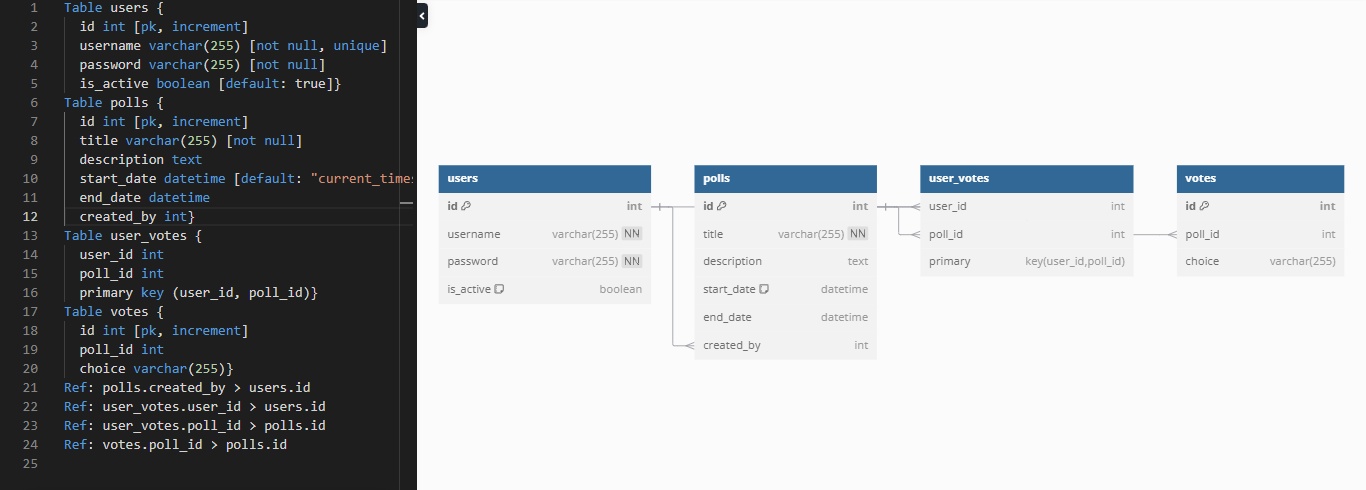
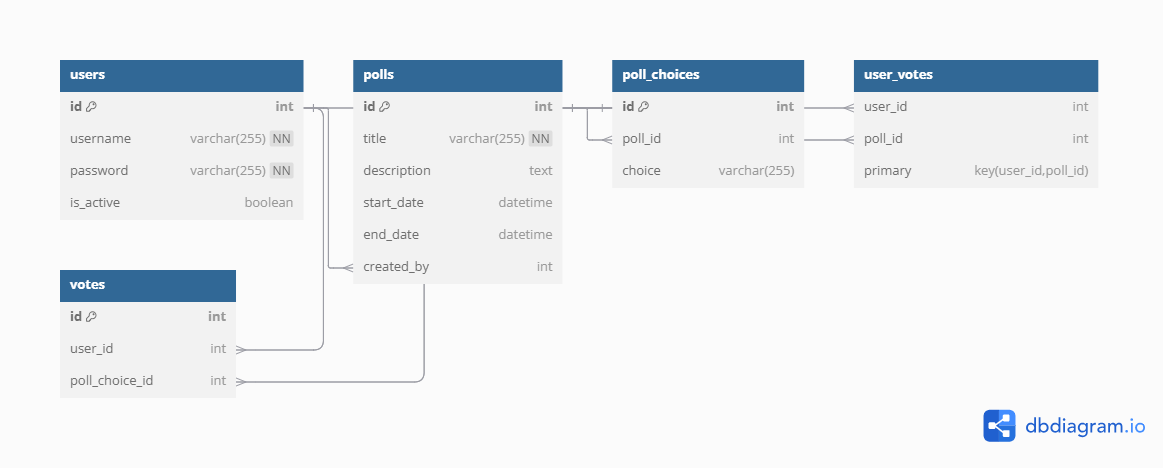
Nihil Ultra.

diff --git a/services/UserService.java b/services/UserService.java
@@ -14,11 +14,44 @@ public class UserService {
     }
 
     public static void registerUser() {
-        System.out.print("Enter username: ");
-        String username = scanner.nextLine();
-
-        System.out.print("Enter password: ");
-        String password = scanner.nextLine();
+        String username = "";
+        String password = "";
+    
+        while (true) {
+            System.out.print("Enter username: ");
+            username = scanner.nextLine();
+    
+            if (username.length() < 4) {
+                System.out.println("Username must be at least 4 characters long. Please try again.");
+                continue;
+            }
+    
+            try (Connection conn = DatabaseConnector.getConnection()) {
+                PreparedStatement checkStmt = conn.prepareStatement("SELECT COUNT(*) FROM users WHERE username = ?");
+                checkStmt.setString(1, username);
+                ResultSet rs = checkStmt.executeQuery();
+    
+                if (rs.next() && rs.getInt(1) > 0) {
+                    System.out.println("Username already exists. Please choose another username.");
+                } else {
+                    break; 
+                }
+            } catch (SQLException e) {
+                System.out.println("Error checking username: " + e.getMessage());
+                e.printStackTrace();
+            }
+        }
+    
+        while (true) {
+            System.out.print("Enter password: ");
+            password = scanner.nextLine();
+    
+            if (password.length() < 8) {
+                System.out.println("Password must be at least 8 characters long. Please try again.");
+                continue;
+            }
+            break; 
+        }
 
         try (Connection conn = DatabaseConnector.getConnection()) {
             PreparedStatement stmt = conn.prepareStatement("INSERT INTO users (username, password) VALUES (?, ?)");
@@ -31,13 +64,47 @@ public class UserService {
             e.printStackTrace();
         }
     }
+    
 
     public static void loginUser() {
-        System.out.print("Enter username: ");
-        String username = scanner.nextLine();
+        String username = "";
+        String password = "";
     
-        System.out.print("Enter password: ");
-        String password = scanner.nextLine();
+        while (true) {
+            System.out.print("Enter username: ");
+            username = scanner.nextLine();
+    
+            if (username.length() < 4) {
+                System.out.println("Username must be at least 4 characters long. Please try again.");
+                continue;
+            }
+    
+            try (Connection conn = DatabaseConnector.getConnection()) {
+                PreparedStatement checkStmt = conn.prepareStatement("SELECT COUNT(*) FROM users WHERE username = ?");
+                checkStmt.setString(1, username);
+                ResultSet rs = checkStmt.executeQuery();
+    
+                if (rs.next() && rs.getInt(1) == 0) {
+                    System.out.println("Username does not exist. Please try again.");
+                } else {
+                    break; 
+                }
+            } catch (SQLException e) {
+                System.out.println("Error checking username: " + e.getMessage());
+                e.printStackTrace();
+            }
+        }
+    
+        while (true) {
+            System.out.print("Enter password: ");
+            password = scanner.nextLine();
+    
+            if (password.length() < 8) {
+                System.out.println("Password must be at least 8 characters long. Please try again.");
+                continue;
+            }
+            break; 
+        }
     
         try (Connection conn = DatabaseConnector.getConnection()) {
             PreparedStatement stmt = conn.prepareStatement("SELECT * FROM users WHERE username = ? AND password = ?");
@@ -51,13 +118,13 @@ public class UserService {
                 UserService userService = new UserService(rs.getInt("id"));
                 userService.userMenu();
             } else {
-                System.out.println("Invalid credentials. Try again.");
+                System.out.println("Invalid credentials. Please try again.");
             }
         } catch (SQLException e) {
             System.out.println("Login error: " + e.getMessage());
             e.printStackTrace();
         }
-    }
+    }    
 
     public void userMenu() {
         while (true) {
@@ -65,8 +132,7 @@ public class UserService {
                 System.out.println("\n--- User Menu ---");
                 System.out.println("1. Vote in a Poll");
                 System.out.println("2. View Poll Results");
-                System.out.println("3. Request Account Deactivation");
-                System.out.println("4. Back to Main Menu");
+                System.out.println("3. Back to Main Menu");
                 System.out.print("Choose an option: ");
                 int choice = scanner.nextInt();
                 scanner.nextLine(); 

diff --git a/services/AdminService.java b/services/AdminService.java
@@ -34,8 +34,7 @@ public class AdminService {
             System.out.println("1. Create a Poll");
             System.out.println("2. View Poll Results");
             System.out.println("3. End a Poll");
-            System.out.println("4. Approve Account Deactivations");
-            System.out.println("5. Back to Main Menu");
+            System.out.println("4. Back to Main Menu");
             System.out.print("Choose an option: ");
     
             int choice = -1;
@@ -63,9 +62,6 @@ public class AdminService {
                         endPoll();
                         break;
                     case 4:
-                        approveDeactivations();
-                        break;
-                    case 5:
                         return;
                 }
             } catch (Exception e) {
@@ -78,11 +74,11 @@ public class AdminService {
     private static void createPoll() {
         System.out.print("Enter poll title: ");
         String title = scanner.nextLine();
-
+    
         System.out.print("Enter duration of poll (in days): ");
         int duration = scanner.nextInt();
         scanner.nextLine();
-
+    
         try (Connection conn = DatabaseConnector.getConnection()) {
             PreparedStatement stmt = conn.prepareStatement(
                 "INSERT INTO polls (title, start_date, end_date) VALUES (?, NOW(), DATE_ADD(NOW(), INTERVAL ? DAY))",
@@ -91,13 +87,13 @@ public class AdminService {
             stmt.setString(1, title);
             stmt.setInt(2, duration);
             stmt.executeUpdate();
-
+    
             ResultSet rs = stmt.getGeneratedKeys();
             int pollId = -1;
             if (rs.next()) {
                 pollId = rs.getInt(1);
             }
-
+    
             System.out.println("Enter poll options (type 'done' to finish): ");
             while (true) {
                 System.out.print("Option: ");
@@ -105,9 +101,9 @@ public class AdminService {
                 if (option.equalsIgnoreCase("done")) {
                     break;
                 }
-
+    
                 PreparedStatement optionStmt = conn.prepareStatement(
-                    "INSERT INTO votes (poll_id, choice) VALUES (?, ?)"
+                    "INSERT INTO poll_choices (poll_id, option_text) VALUES (?, ?)"
                 );
                 optionStmt.setInt(1, pollId);
                 optionStmt.setString(2, option);
@@ -120,6 +116,7 @@ public class AdminService {
             System.out.println("Unexpected error during poll creation: " + e.getMessage());
         }
     }
+    
 
     private static void viewPollResults() {
         try (Connection conn = DatabaseConnector.getConnection()) {
@@ -180,34 +177,6 @@ public class AdminService {
             System.out.println("Error ending poll: " + e.getMessage());
         } catch (Exception e) {
             System.out.println("Unexpected error while ending the poll: " + e.getMessage());
-        }
-    }
-
-    private static void approveDeactivations() {
-        try (Connection conn = DatabaseConnector.getConnection()) {
-            PreparedStatement stmt = conn.prepareStatement("SELECT id, username FROM users WHERE is_active = FALSE");
-            ResultSet rs = stmt.executeQuery();
-
-            System.out.println("\n--- Account Deactivation Process ---");
-            while (rs.next()) {
-                System.out.println(rs.getInt("id") + ". " + rs.getString("username"));
-            }
-
-            System.out.print("Enter the user ID to approve deactivation (or 0 to cancel): ");
-            int userId = scanner.nextInt();
-            scanner.nextLine();
-
-            if (userId == 0) return;
-
-            PreparedStatement deleteStmt = conn.prepareStatement("DELETE FROM users WHERE id = ?");
-            deleteStmt.setInt(1, userId);
-            deleteStmt.executeUpdate();
-
-            System.out.println("Deactivation approved. User removed from the database.");
-        } catch (SQLException e) {
-            System.out.println("Error deactivating account: " + e.getMessage());
-        } catch (Exception e) {
-            System.out.println("Unexpected error during account deactivation: " + e.getMessage());
         }
     }
 }
